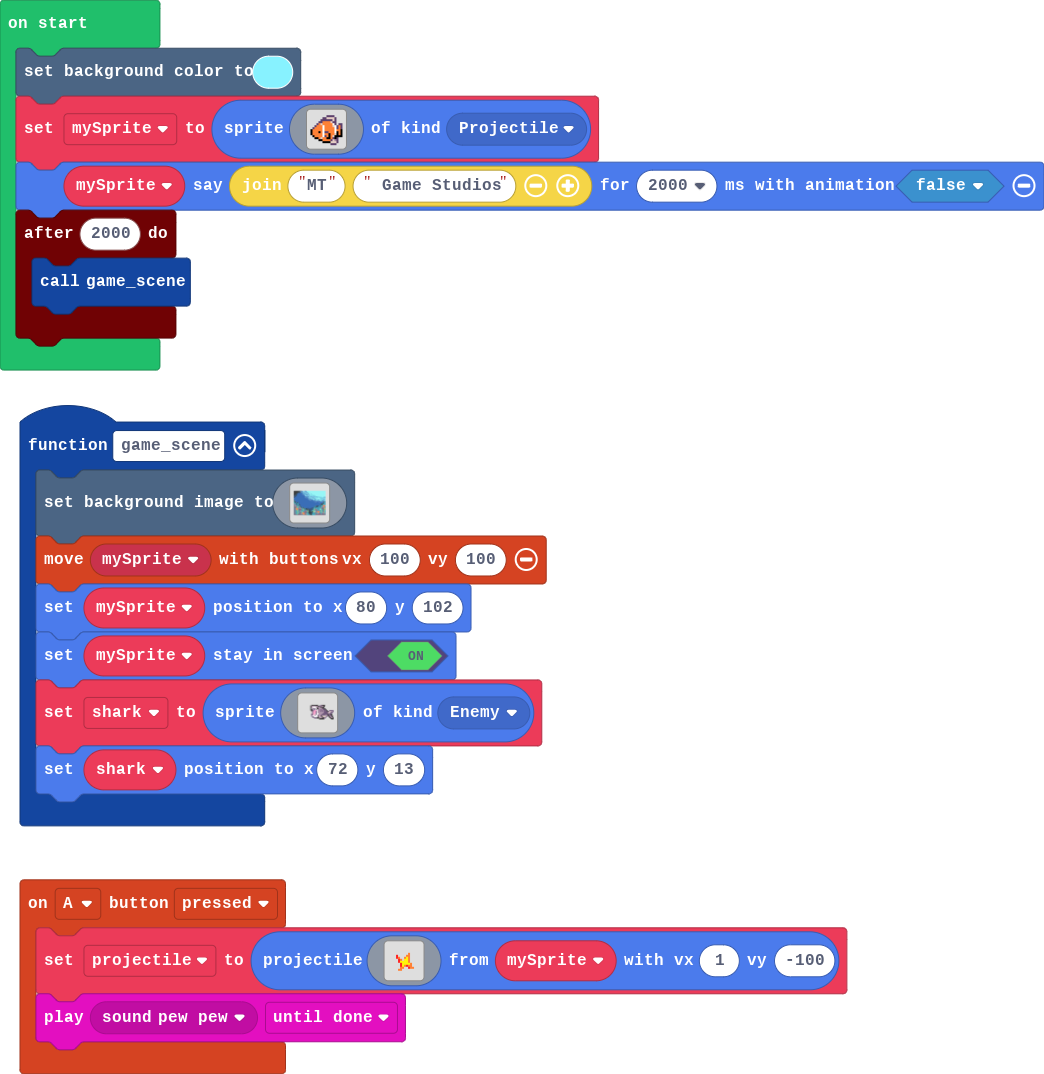
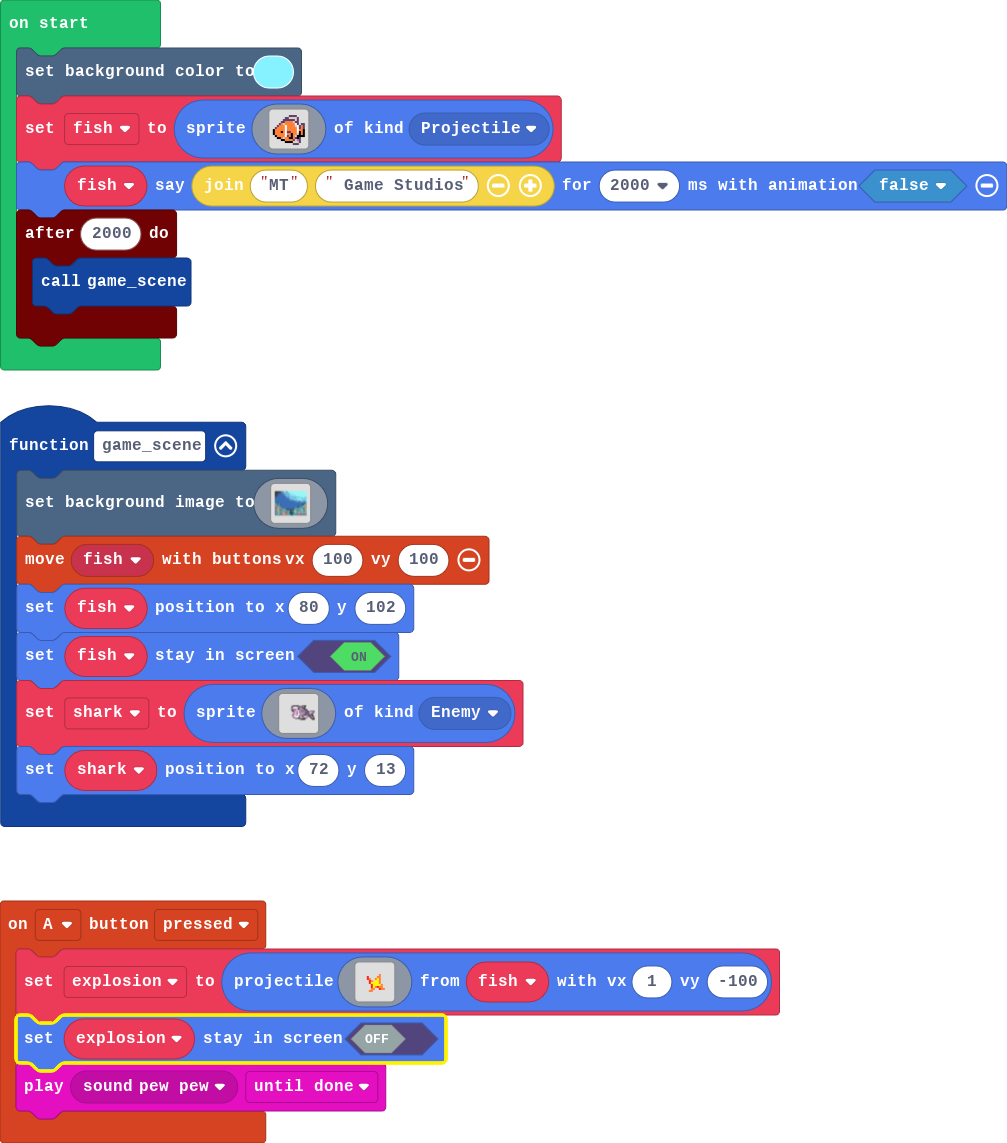
added stuff

Changed region(s): [[0.0, 0.0, 1.0, 1.0]]

diff --git a/main.ts b/main.ts
@@ -1,5 +1,5 @@
 controller.A.onEvent(ControllerButtonEvent.Pressed, function () {
-    projectile = sprites.createProjectileFromSprite(img`
+    explosion = sprites.createProjectileFromSprite(img`
         . . . . . . . . . . . . . . . . 
         . . . . . . . . . . . . . . . . 
         . . . . . . . . . . . . . . . . 
@@ -16,7 +16,8 @@ controller.A.onEvent(ControllerButtonEvent.Pressed, function () {
         . . . . . . . . . . . . . . . . 
         . . . . . . . . . . . . . . . . 
         . . . . . . . . . . . . . . . . 
-        `, mySprite, 1, -100)
+        `, fish, 1, -100)
+    explosion.setStayInScreen(false)
     music.play(music.melodyPlayable(music.pewPew), music.PlaybackMode.UntilDone)
 })
 function game_scene () {
@@ -142,9 +143,9 @@ function game_scene () {
[2 lines of base64/hex data omitted]
         `)
-    controller.moveSprite(mySprite, 100, 100)
-    mySprite.setPosition(80, 102)
-    mySprite.setStayInScreen(true)
+    controller.moveSprite(fish, 100, 100)
+    fish.setPosition(80, 102)
+    fish.setStayInScreen(true)
     shark = sprites.create(img`
         ...........fffffff...ccfff..........
         ..........fbbbbbbbffcbbbbf..........
@@ -166,10 +167,10 @@ function game_scene () {
     shark.setPosition(72, 13)
 }
 let shark: Sprite = null
-let projectile: Sprite = null
-let mySprite: Sprite = null
+let explosion: Sprite = null
+let fish: Sprite = null
 scene.setBackgroundColor(9)
-mySprite = sprites.create(img`
+fish = sprites.create(img`
     . . . . . . . . . . . . . . . . 
     . . . . . . . . c c c c . . . . 
     . . . . . . c c d d d d c . . . 
@@ -187,7 +188,7 @@ mySprite = sprites.create(img`
     . . . . . . f f f f d d d c . . 
     . . . . . . . . . . c c c . . . 
     `, SpriteKind.Projectile)
-mySprite.sayText("MT" + " Game Studios", 2000, false)
+fish.sayText("MT" + " Game Studios", 2000, false)
 timer.after(2000, function () {
     game_scene()
 })
